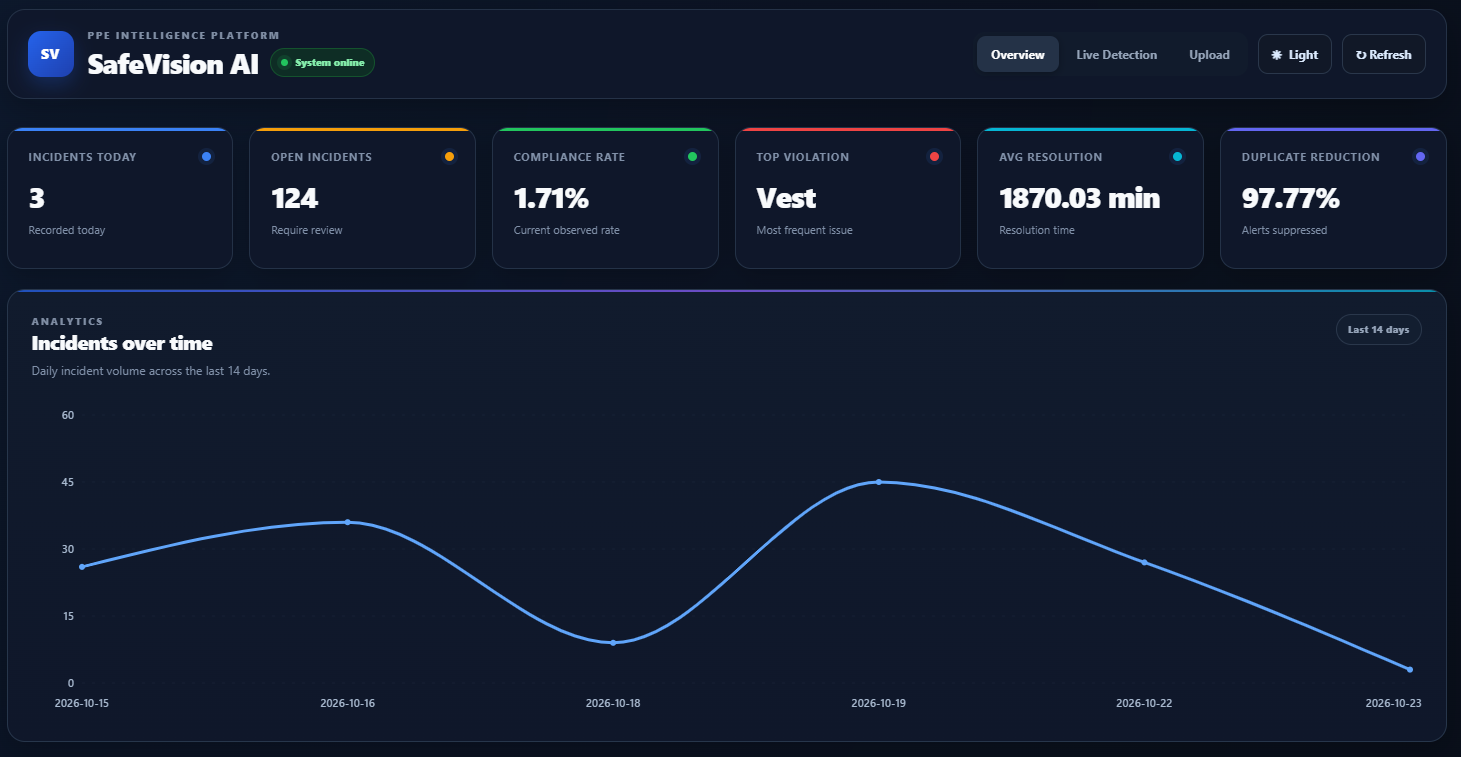
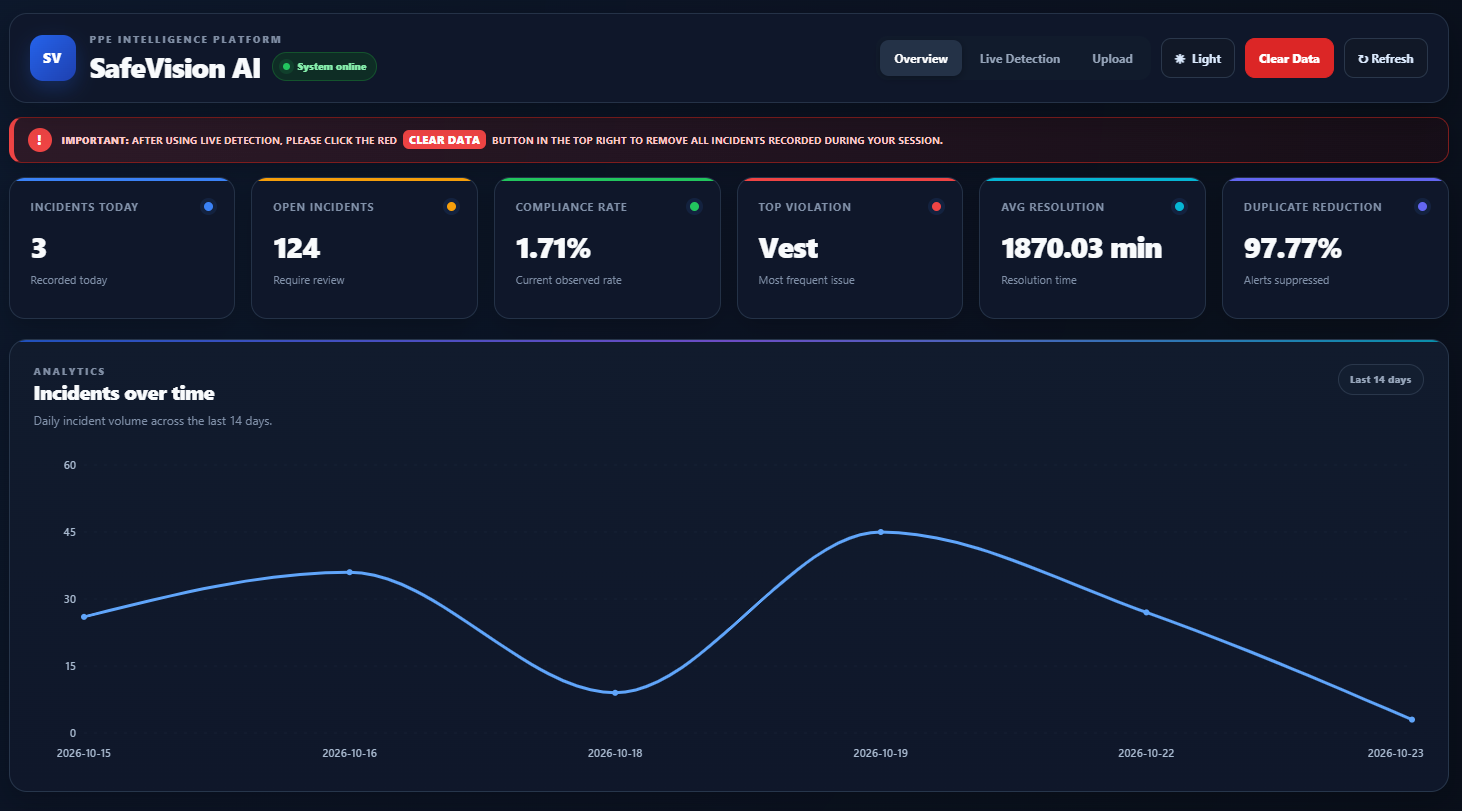
Added Clear Data Caution on Dashboard

diff --git a/frontend/src/styles.css b/frontend/src/styles.css
@@ -369,6 +369,132 @@ h3 {
 
 
 /* =========================================================
+   DASHBOARD CAUTION BANNER
+   ========================================================= */
+
+.dashboardCaution {
+  display: flex;
+  align-items: center;
+  gap: 10px;
+
+  margin:
+    -14px 0
+    14px;
+
+  padding:
+    10px 14px;
+
+  border:
+    1px solid #fecaca;
+
+  border-left:
+    5px solid #dc2626;
+
+  border-radius:
+    13px;
+
+  background:
+    linear-gradient(
+      90deg,
+      #fff1f2 0%,
+      #fef2f2 100%
+    );
+
+  color:
+    #991b1b;
+
+  box-shadow:
+    0 5px 18px
+    rgba(220, 38, 38, 0.07);
+}
+
+.dashboardCautionIcon {
+  display: grid;
+  place-items: center;
+
+  width: 24px;
+  height: 24px;
+
+  flex:
+    0 0 24px;
+
+  border-radius:
+    50%;
+
+  background:
+    #dc2626;
+
+  color:
+    #ffffff;
+
+  font-size:
+    13px;
+
+  font-weight:
+    900;
+
+  line-height:
+    1;
+}
+
+.dashboardCaution p {
+  margin: 0;
+
+  color:
+    inherit;
+
+  font-size:
+    11px;
+
+  font-weight:
+    750;
+
+  line-height:
+    1.4;
+
+  letter-spacing:
+    0.015em;
+}
+
+.dashboardCaution p strong {
+  font-weight:
+    900;
+}
+
+.dashboardCautionAction {
+  display:
+    inline-flex;
+
+  align-items:
+    center;
+
+  margin:
+    0 3px;
+
+  padding:
+    2px 6px;
+
+  border-radius:
+    6px;
+
+  background:
+    #dc2626;
+
+  color:
+    #ffffff;
+
+  font-size:
+    11px;
+
+  font-weight:
+    900;
+
+  white-space:
+    nowrap;
+}
+
+
+/* =========================================================
    LOADING / ERRORS
    ========================================================= */
 
@@ -1642,6 +1768,42 @@ body.dark-mode .refreshButton:hover {
 
 
 /* =========================================================
+   DARK MODE — CAUTION BANNER
+   ========================================================= */
+
+body.dark-mode .dashboardCaution {
+  border-color:
+    #7f1d1d;
+
+  border-left-color:
+    #ef4444;
+
+  background:
+    linear-gradient(
+      90deg,
+      rgba(127, 29, 29, 0.28) 0%,
+      rgba(69, 10, 10, 0.22) 100%
+    );
+
+  color:
+    #fecaca;
+
+  box-shadow:
+    0 7px 20px
+    rgba(0, 0, 0, 0.18);
+}
+
+body.dark-mode .dashboardCautionIcon,
+body.dark-mode .dashboardCautionAction {
+  background:
+    #ef4444;
+
+  color:
+    #ffffff;
+}
+
+
+/* =========================================================
    DARK MODE — ERRORS / LOADING
    ========================================================= */
 
@@ -2068,6 +2230,39 @@ body.dark-mode .evidencePanel {
     flex: 1;
 
     justify-content: center;
+  }
+
+  .dashboardCaution {
+    align-items:
+      flex-start;
+
+    margin-top:
+      -12px;
+
+    margin-bottom:
+      12px;
+
+    padding:
+      10px 12px;
+  }
+
+  .dashboardCaution p {
+    font-size:
+      11px;
+  }
+
+  .dashboardCautionIcon {
+    width:
+      25px;
+
+    height:
+      25px;
+
+    flex-basis:
+      25px;
+
+    font-size:
+      13px;
   }
 
   .cards {

diff --git a/frontend/src/App.tsx b/frontend/src/App.tsx
@@ -1067,6 +1067,34 @@ export default function App() {
       </header>
 
 
+      {
+        activePage === 'overview'
+        && (
+          <div
+            className="dashboardCaution"
+            role="note"
+            aria-label="Live Detection data reminder"
+          >
+            <span className="dashboardCautionIcon">
+              !
+            </span>
+
+            <p>
+              <strong>IMPORTANT:</strong>
+              {' '}
+              AFTER USING LIVE DETECTION, PLEASE CLICK THE RED
+              {' '}
+              <span className="dashboardCautionAction">
+                CLEAR DATA
+              </span>
+              {' '}
+              BUTTON IN THE TOP RIGHT TO REMOVE ALL INCIDENTS RECORDED DURING YOUR SESSION. DEMO DATA WILL REMAIN.
+            </p>
+          </div>
+        )
+      }
+
+
       {/* ==================================================
           PAGE
           ================================================== */}
